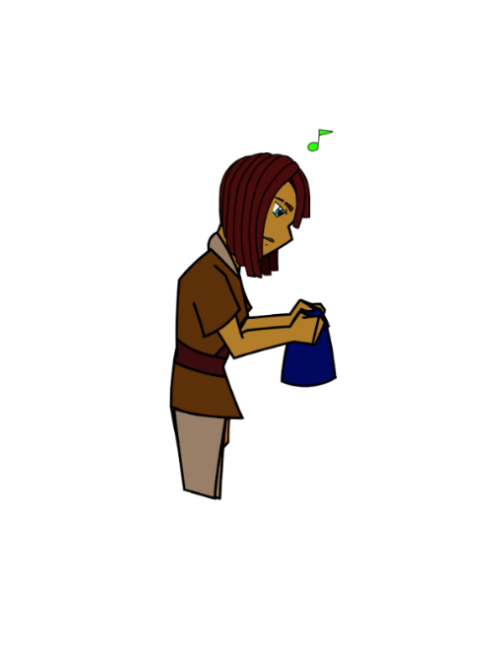
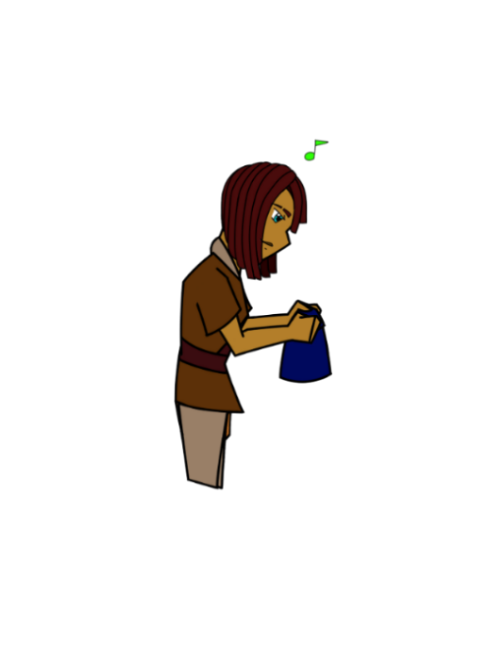
minor fixes

Changed region(s): [[0.33, 0.1799, 0.69, 0.7496]]

diff --git a/css/style.css b/css/style.css
@@ -13,7 +13,7 @@ body {
 /* character setup */
 .character {
     position: absolute;
-    margin-top: 10%;
+    margin-top: 4%;
     margin-left: 40%;
     height: 452px;
     width: 500px;  
@@ -33,8 +33,8 @@ body {
 }
 
 .merchant {
-    margin-top: 0%;
-    height: 487px;
+    margin-top: 4%;
+    height: 449px;
     background: url(../media/character-merchantL.png);
 }
 
@@ -159,10 +159,11 @@ li {
 
 .hero_text {
     margin: 15px 12px 0px;
-    font-size: 18px;
+    font-size: 24px;
 }
 
 .story_plot {
+    position: relative;
     margin-top: 50%;
     height: 250px;
     width: 100%;
@@ -221,7 +222,7 @@ button {
 
     .hero_text {
         margin: 25px 15px 0px;
-        font-size: 18px;
+        font-size: 16px;
     }
 
     .story_plot {
@@ -230,9 +231,9 @@ button {
     }
 
     .character {
-        margin-top: -8%;
+        margin-top: 0%;
         margin-left: -13%;
-        height: 76%;
+        height: 80%;
         width: 100%;
     }
 
@@ -241,20 +242,14 @@ button {
     } 
 
     .hero_happy {
-        margin-top: 6%;
-        height: 66%;
         background: url(../media/character_draft2_happy.png);
     }
 
     .hero_angry {
-        margin-top: 6%;
-        height: 66%;
         background: url(../media/character_draft_upset.png);
     }
     
     .merchant {
-        margin-top: -9%;
-        height: 77%;
         background: url(../media/character-merchant.png);
     }
 
@@ -263,8 +258,6 @@ button {
     }
 
     .traders {
-        margin-top: -2%;
-        height: 72%;
         background: url(../media/character-traders.png);
     }
 
@@ -289,20 +282,41 @@ button {
     }
 
     .choiceBtn {
-        margin-top: 32%;
+        margin-top: 35%;
+        margin-left: 0%;
         height: 47px;
         width: 92%;
         font-size: 13px;
     }
 
     .choiceB {
-        margin-top: 46%;
-        margin-left: 0%;
+        margin-top: 50%;
+    }
+    
+}
+
+@media (min-width: 768px) and (max-width: 1023px) {
+
+    .hero_stats {
+        margin-top: 16%;
+    }
+
+    .character {
+        margin-top: -7%;
+    }
+
+    .storyBtn {
+        margin-top: 22%;
+    }
+
+    .choiceBtn {
+        margin-top: 22%;
     }
 
 
-    
 }
+
+
 
 /* Backgrounds: */
 /*George Hiles*/
